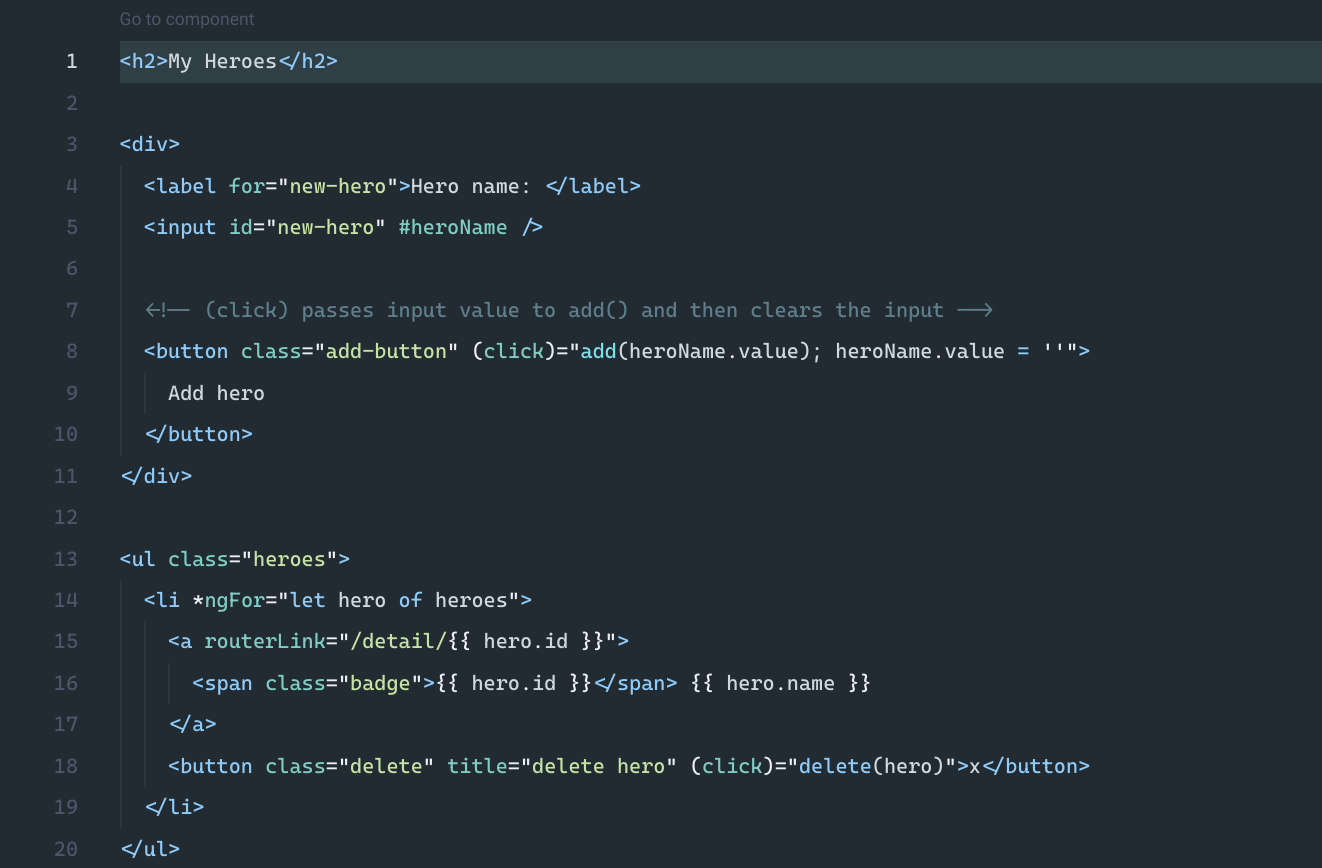
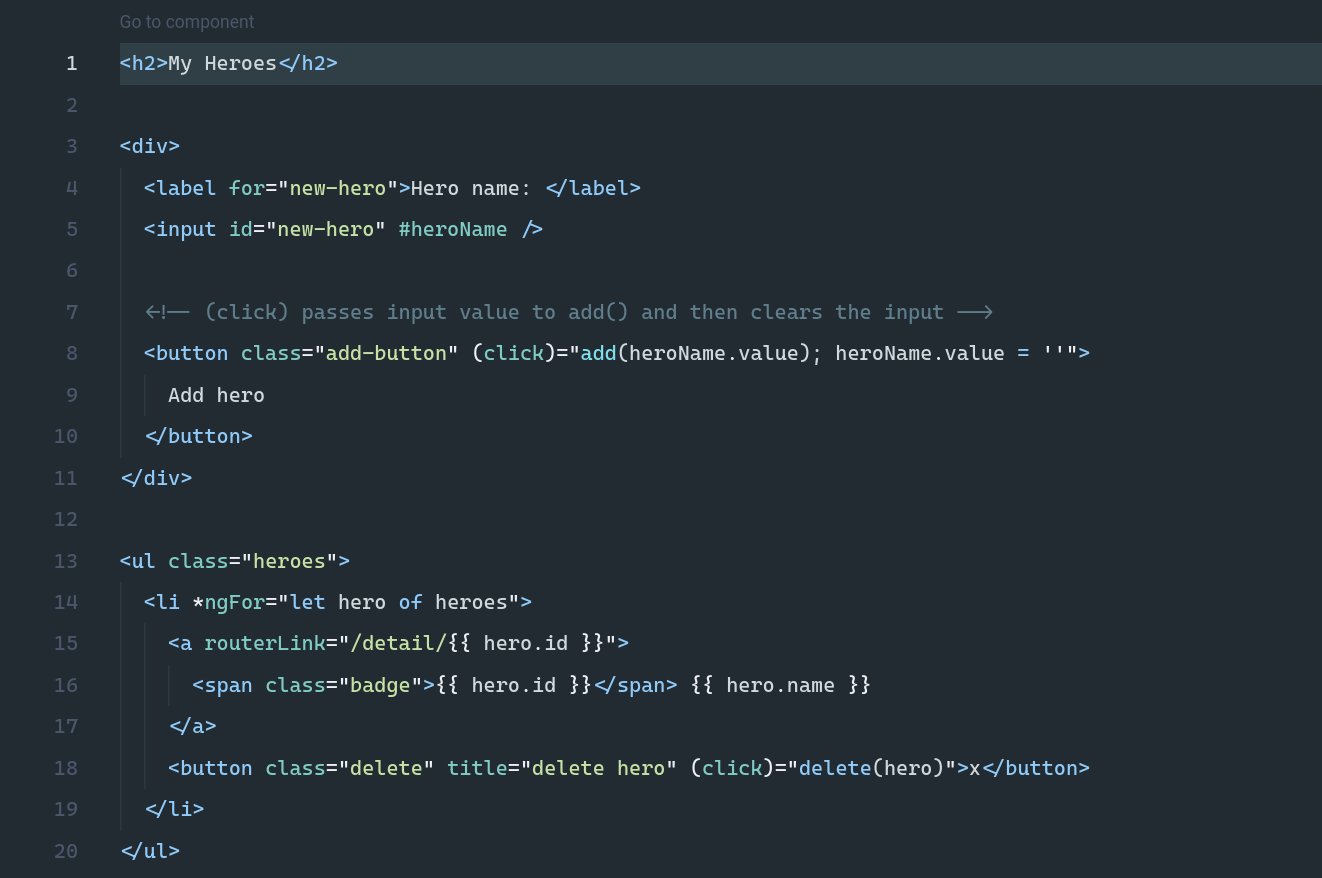
docs: fix screenshot in readme

diff --git a/CHANGELOG.md b/CHANGELOG.md
@@ -2,6 +2,12 @@
 
 All notable changes to the "Iditarod" extension will be documented in this file.
 
+## 1.2.3 - 2022-01-14
+
+### Fixed
+
+- Fix screenshot in README.
+
 ## 1.2.2 - 2022-01-14
 
 ### Fixed
